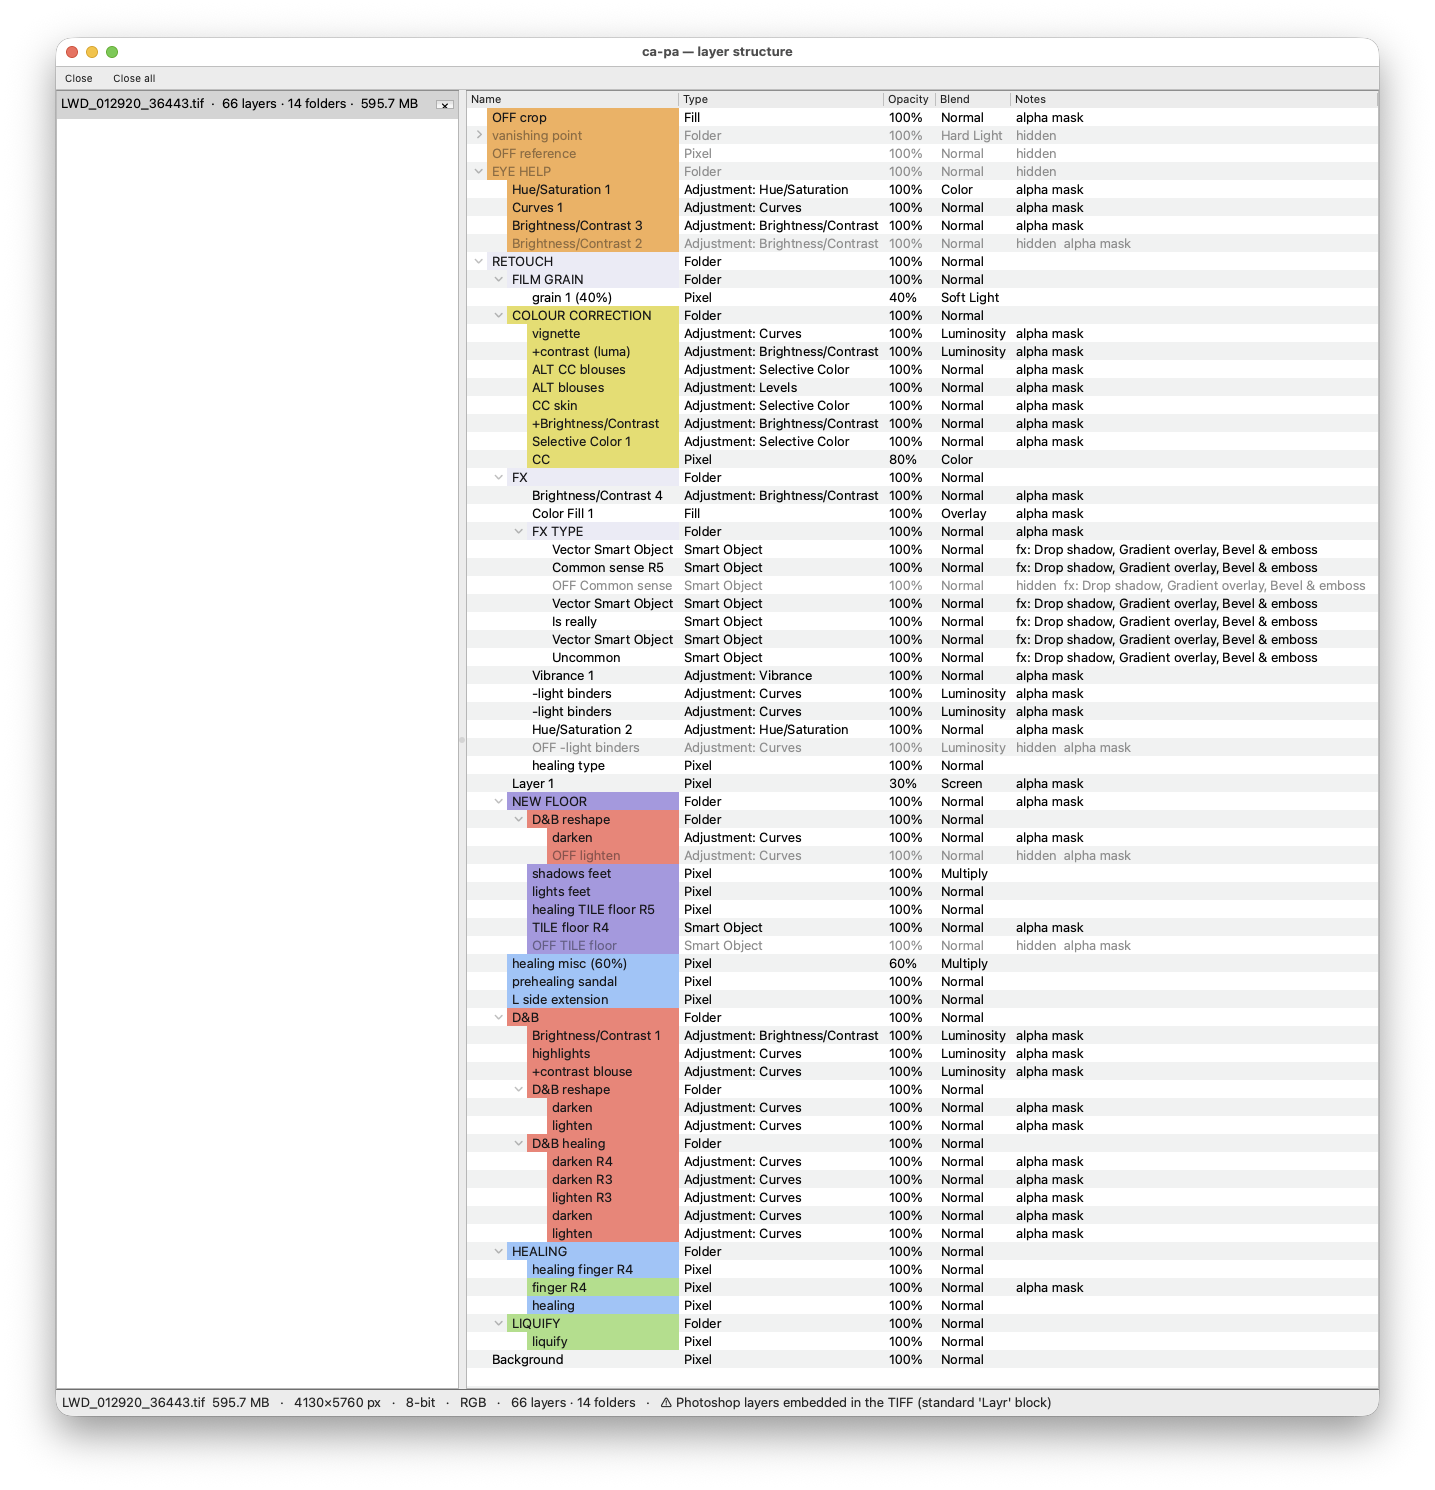
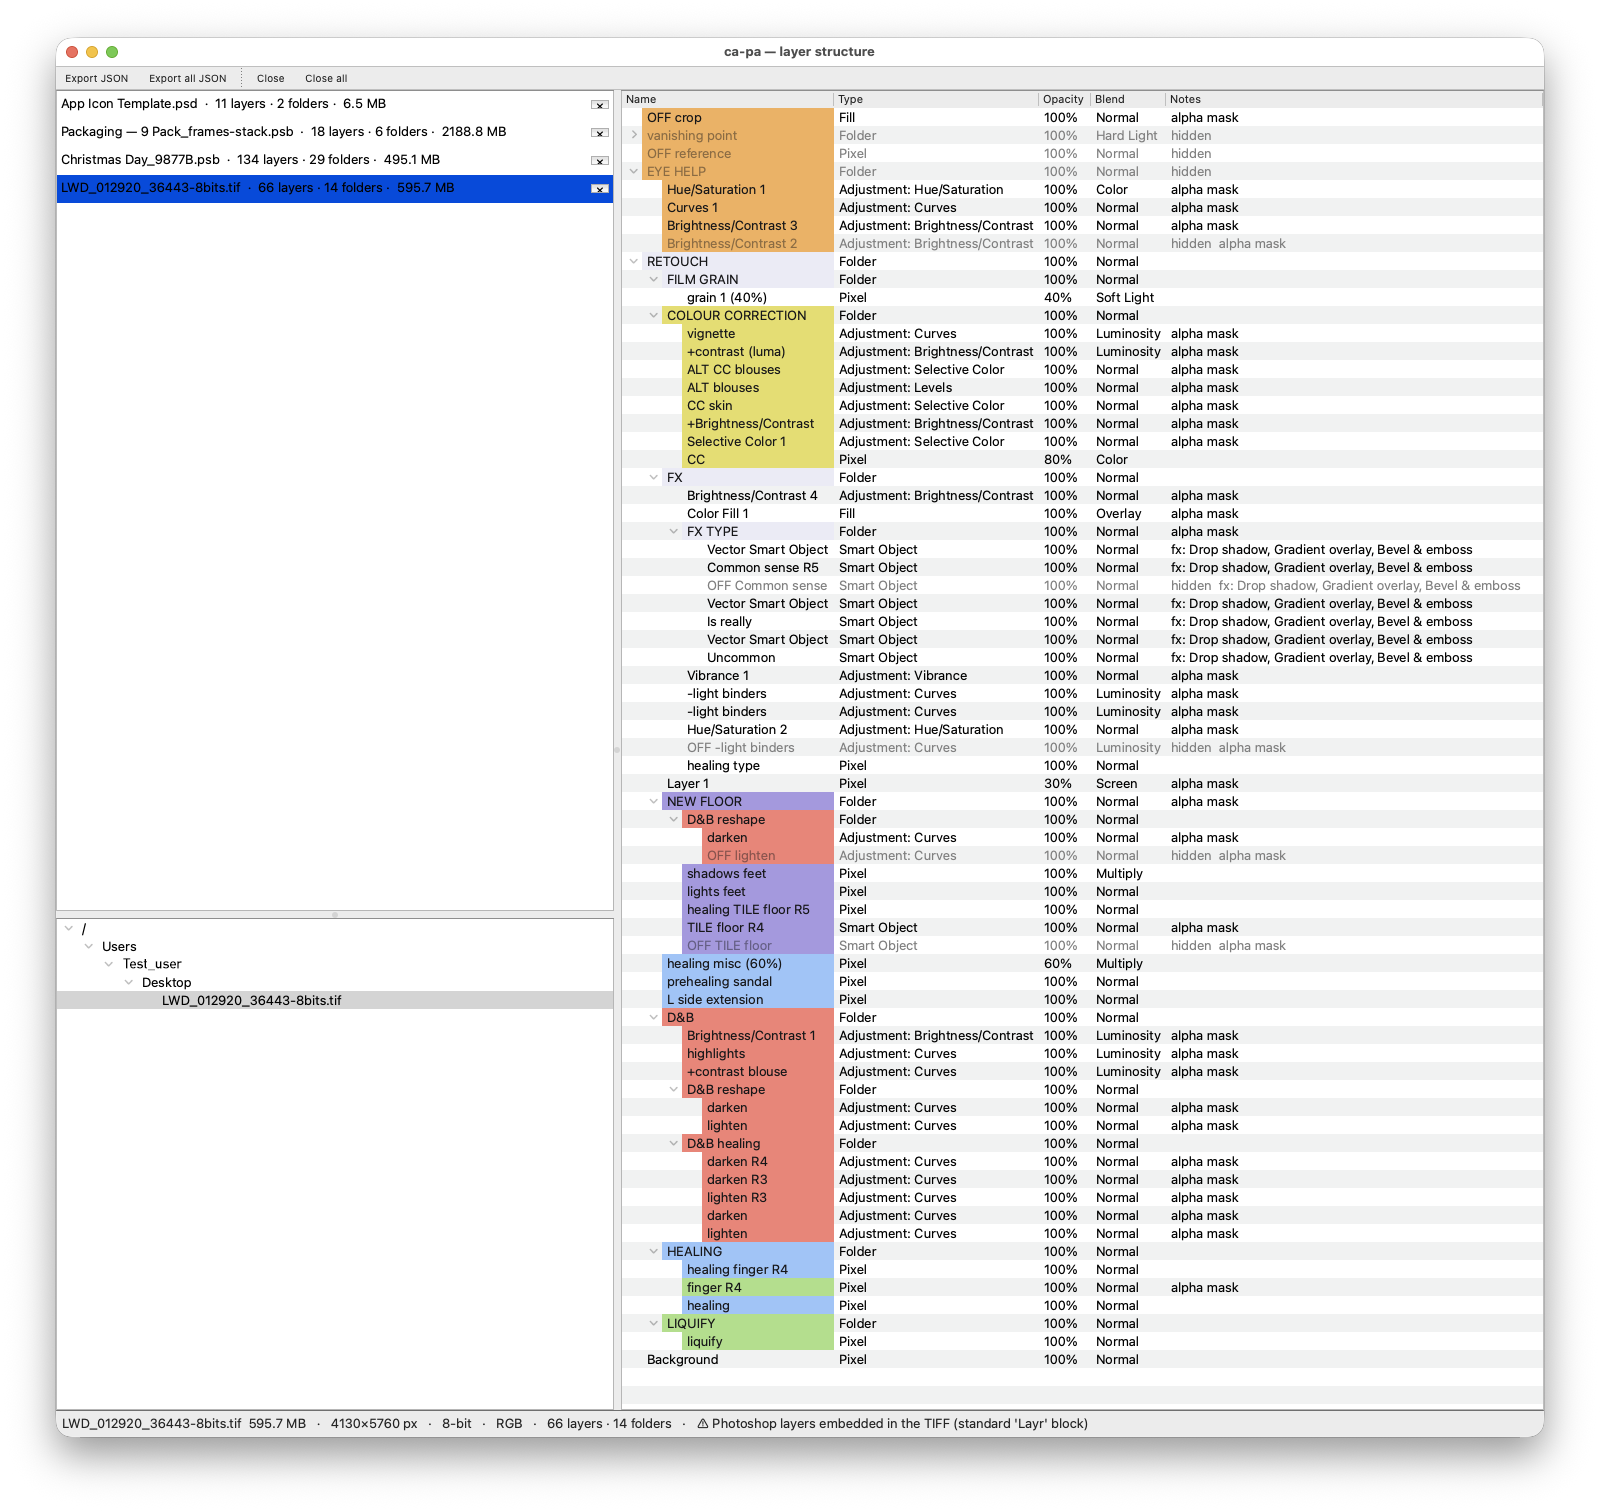
README: refresh the screenshot block with the updated captures
The four captures in docs/ were refreshed; the README now references all
four (screenshot, screenshot1, screenshot2 and the new screenshot4) and
the alt text no longer carries a stale layer/folder count.  No code
change.

Changed region(s): [[0.0307, 0.0309, 0.9812, 0.957], [0.3066, 0.5866, 0.3373, 0.6174], [0.184, 0.5866, 0.2146, 0.6174]]

diff --git a/README.md b/README.md
@@ -12,9 +12,8 @@ seconds and uses a few tens of megabytes of RAM.  For now it reads
 
 <p align="center">
     <span style="font-size: 0.8em !important; font-style: italic; color: #666;">▼ 595.7 MB · 4120×5760 px · 8-bit · 66 layers · 14 folders</span><br>
-    <img src="docs/screenshot.png" alt="ca-pa inspecting a layered TIFF: 18 layers and 8 folders" width="760">
+    <img src="docs/screenshot.png" alt="ca-pa inspecting a layered TIFF" width="760">
 </p>
-
 
 <p align="center">
     <span style="font-size: 0.8em !important; font-style: italic; color: #666;">▼ 495.1 MB · 3627×4534 px · 8-bit · 134 layers · 29 folders</span><br>
@@ -24,6 +23,10 @@ seconds and uses a few tens of megabytes of RAM.  For now it reads
 <p align="center">
     <span style="font-size: 0.8em !important; font-style: italic; color: #666;">▼ 2.2 GB · 5124×7801 px · 8-bit · 18 layers · 6 folders</span><br>
     <img src="docs/screenshot2.png" alt="ca-pa, another view of the layer tree" width="760">
+</p>
+
+<p align="center">
+    <img src="docs/screenshot4.png" alt="ca-pa: JSON export and the file's directory tree" width="760">
 </p>
 The name is a nod to *capas* (Spanish for “layers”).
 
